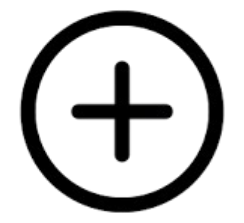
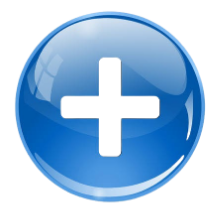
process

diff --git a/Apple-websites-assignment-9/index.html b/Apple-websites-assignment-9/index.html
@@ -87,7 +87,15 @@
                         <h1>More personal. More powerful</h1>
                         <p>Siri AI is rolling out in English.2
                         </p>
-                        <img src="https://www.apple.com/v/iphone-duo/d/images/overview/highlights/siri__bklrx9fgx0pe_large.jpg" alt="">
+                        <div class="banner-button margin">
+                            <div class="button-ek">
+                                <button type="button">Learn more</button>
+                            </div>
+                            <div class="button-doo">
+                                <button type="button">Buy</button>
+                            </div>
+                        </div>
+
                     </div>
                     <!-- <div class="box"></div> -->
                 </div>
@@ -96,23 +104,26 @@
     </div>
 
     <div class="content3">
-            <h4>Foldable design</h4>
-            <h1>A new iPhone <br> enters the fold.</h1>
-            <p>Introducing iPhone Duo, the first foldable iPhone. When open, it’s the thinnest iPhone <br> with the largest display ever — 50 percent larger than iPhone 18 Pro Max. And it has an <br> outer display with more than 90 percent of the screen area of iPhone 18 Pro. Through <br> reimagined iOS experiences, it offers unparalleled versatility in all-new poses and <br> orientations. All in a durable, pocketable design. It’s an iPhone unlike any iPhone.</p>
+        <h4>Foldable design</h4>
+        <h1>A new iPhone <br> enters the fold.</h1>
+        <p>Introducing iPhone Duo, the first foldable iPhone. When open, it’s the thinnest iPhone <br> with the largest
+            display ever — 50 percent larger than iPhone 18 Pro Max. And it has an <br> outer display with more than 90
+            percent of the screen area of iPhone 18 Pro. Through <br> reimagined iOS experiences, it offers unparalleled
+            versatility in all-new poses and <br> orientations. All in a durable, pocketable design. It’s an iPhone
+            unlike any iPhone.</p>
+       <img src="https://is1-ssl.mzstatic.com/image/thumb/Features211/v4/e9/7b/bd/e97bbd89-c9ae-c79f-b533-bb9a806e5bf0/f81d102b-27cf-4041-814e-89a13fa320e3.png/226x226sr.jpg" alt>
+    </div>
 
-            <img src="https://www.apple.com/v/iphone-duo/d/images/overview/design/design_endframe__csvxe3ut4a6a_large.jpg" alt="">
-        </div>
-
-        <div class="content4">
-            <div class="content-image">
-                <div class="main-button-div">
+    <div class="content4">
+        <div class="content-image">
+            <div class="main-button-div">
                 <button type="button" class="button1
                  button ">
-                 <div class="btn-img">
-                    <img src="download (1).png" alt="">
-                 </div>
-                 <div class="btn-text">
-                    <p>Foldable design</p>
+                    <div class="btn-img">
+                        <img src="download (1).png" alt="">
+                    </div>
+                    <div class="btn-text">
+                        <p>Foldable design</p>
                     </div>
                 </button>
                 <button type="button" class="button2 button ">
@@ -120,7 +131,7 @@
                         <img src="download (1).png" alt="">
                     </div>
                     <div class="btn-text">
-                    <p>Landscape</p>
+                        <p>Landscape</p>
                     </div>
                 </button>
                 <button type="button" class="button3 button ">
@@ -128,7 +139,7 @@
                         <img src="download (1).png" alt="">
                     </div>
                     <div class="btn-text">
-                    <p>Portrait</p>
+                        <p>Portrait</p>
                     </div>
                 </button>
                 <button type="button" class="button4 button ">
@@ -136,7 +147,7 @@
                         <img src="download (1).png" alt="">
                     </div>
                     <div class="btn-text">
-                    <p>closed</p>
+                        <p>closed</p>
                     </div>
                 </button>
                 <button type="button" class="button5 button ">
@@ -144,35 +155,35 @@
                         <img src="download (1).png" alt="">
                     </div>
                     <div class="btn-text">
-                    <p>seated</p>
+                        <p>seated</p>
                     </div>
                 </button>
-                <button type="button" class="button6 button"> 
+                <button type="button" class="button6 button">
                     <div class="btn-img">
                         <img src="download (1).png" alt="">
                     </div>
                     <div class="btn-text">
-                    <p>standing</p>
+                        <p>standing</p>
                     </div>
                 </button>
                 <button type="button" class="button7
-                 button"> 
-                 <div class="btn-img">
-                    <img src="download (1).png" alt="">
-                 </div>
-                 <div class="btn-text">
-                    <p>Durability</p>  
-                    </div>             
+                 button">
+                    <div class="btn-img">
+                        <img src="download (1).png" alt="">
+                    </div>
+                    <div class="btn-text">
+                        <p>Durability</p>
+                    </div>
                 </button>
-                </div>
-                <!-- <div class="img">
+            </div>
+            <!-- <div class="img">
                    <img src="https://www.apple.com/v/iphone-duo/d/images/overview/product-viewer/display__bx48n0ntsgvm_large.jpg" alt="">
                 </div> -->
-            </div>
-            
         </div>
+
     </div>
-     
+    </div>
+
 </body>
 
 </html>

diff --git a/Apple-websites-assignment-9/style.css b/Apple-websites-assignment-9/style.css
@@ -260,9 +260,10 @@ hr {
 .box {
     width: 100%;
     height: 90vh;
-    background-color: white;
+    background-color: black;
     box-shadow: -2px 1px 8px 3px #f1f1f1;
     border-radius: 20px;
+    background-image: url("https://www.apple.com/v/apple-watch-series-12/b/images/overview/highlights/highlights_siri_ai_endframe__4asbndv8az6a_large.avif");
 }
 
 .box>h1 {
@@ -270,13 +271,17 @@ hr {
     font-family: arial;
     font-size: 40px;
     margin-top: 150px;
+    color: white;
 }
-
+.margin{
+    margin-top: 60px;
+}
 .box>p {
     text-align: center;
     font-family: arial;
     font-size: 18px;
     margin: 20px;
+    color: white;
 }
 
 .box>img {
@@ -287,12 +292,13 @@ hr {
 
 .content3 {
     width: 100%;
-    height: 150vh;
+    height: auto;
     /* background-color: blue; */
     box-shadow: -2px 1px 8px 3px #f1f1f1;
     margin: auto;
     padding-top: 20px;
     margin-top: 50px;
+    background-color: ;
 }
 
 .content3>h3 {
@@ -322,18 +328,23 @@ hr {
     font-size: 20px;
 }
 
+.content3{
+    width: 90%;
+}
+
 .content3>img {
     margin-top: 20px;
-    text-align: center;
     font-family: arial;
-    width: 100%;
-    height: 567px;
+    width: 90%;
+    height:700px;
+    margin-left: 70px;
+    border-radius: 20px;
 }
 
 .content4 {
     width: 100%;
     height: auto;
-    background-color:white;
+    background-color:black;
     margin-top: 100px;
     display: flex;
     justify-content: space-around;
@@ -341,14 +352,14 @@ hr {
 .main-button-div{
     display: flex;
     flex-direction: column;
-    gap: 30px;
+    gap: 10px;
     margin-top: 90px;
 }
 .content-image {
     width: 80%;
     margin: auto;
     /* padding-top: 40px; */
-    background-image: url("https://www.apple.com/v/iphone-duo/d/images/overview/product-viewer/display__bx48n0ntsgvm_large.jpg");
+    background-image: url("https://www.apple.com/v/apple-watch-series-12/b/images/overview/readiness/fitness_hero__5h67iklblz62_large.avif");
     display: flex;
     /* background-color: green; */
     /* margin-top: 50px; */
@@ -356,15 +367,18 @@ hr {
 }
 .button:hover{
     cursor: pointer;
-    background-color: rgba(224, 224, 224, 0.932);
-        box-shadow: -2px 1px 8px 3px #f1f1f1;
+    background-color: white;
+        /* box-shadow: -2px 1px 8px 3px #f1f1f1; */
+        border: 2px solid #019e8e;
 }
 button {
     width: 250px;
     height: 50px;
     border-radius: 50px;
+    color:#00bdab;
     border: none;
     font-size: 20px;
+    background-color: white);
 }
 .button1{
     width: 230px;
